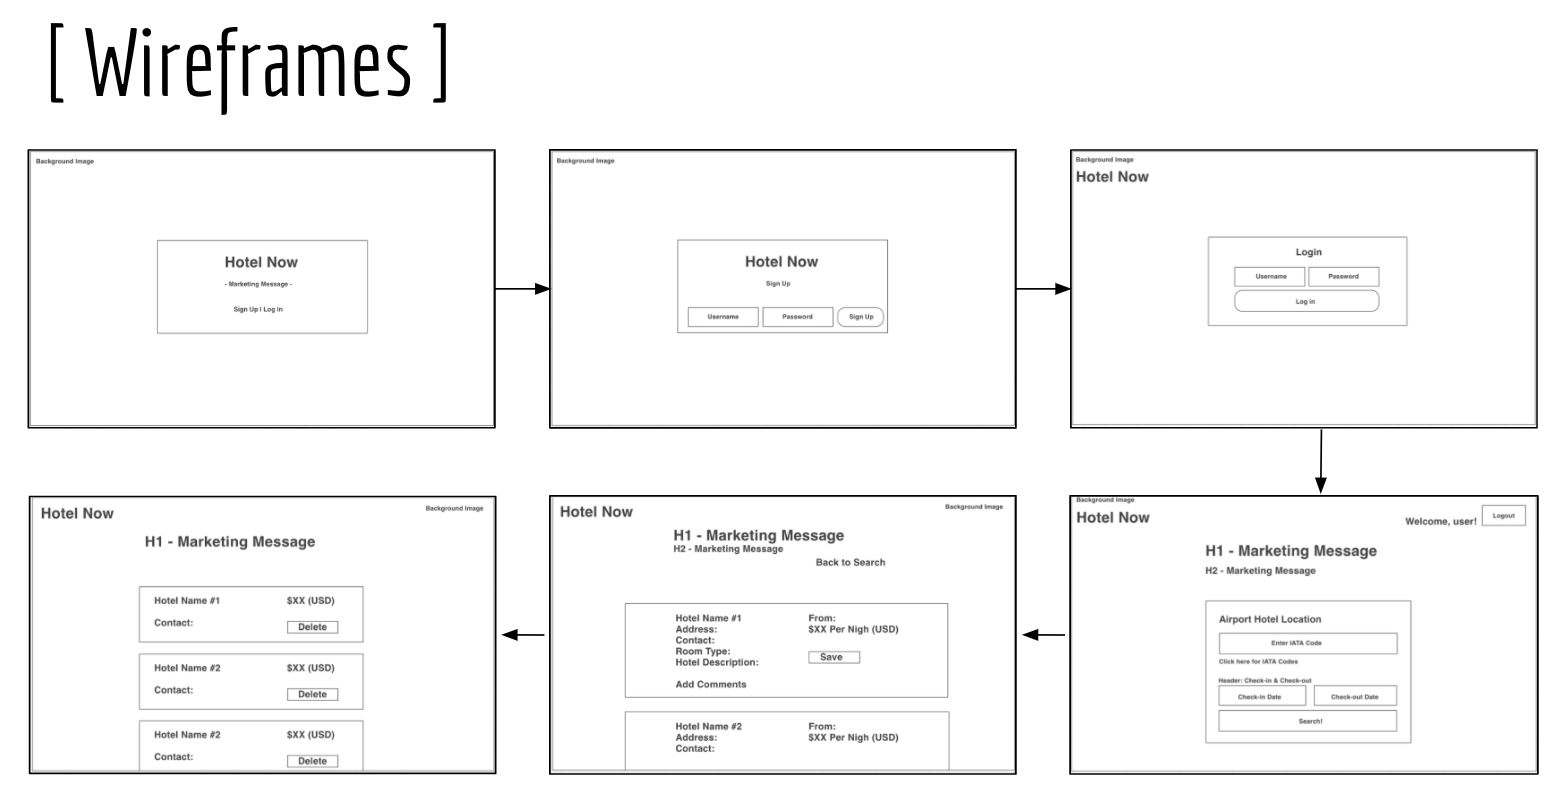
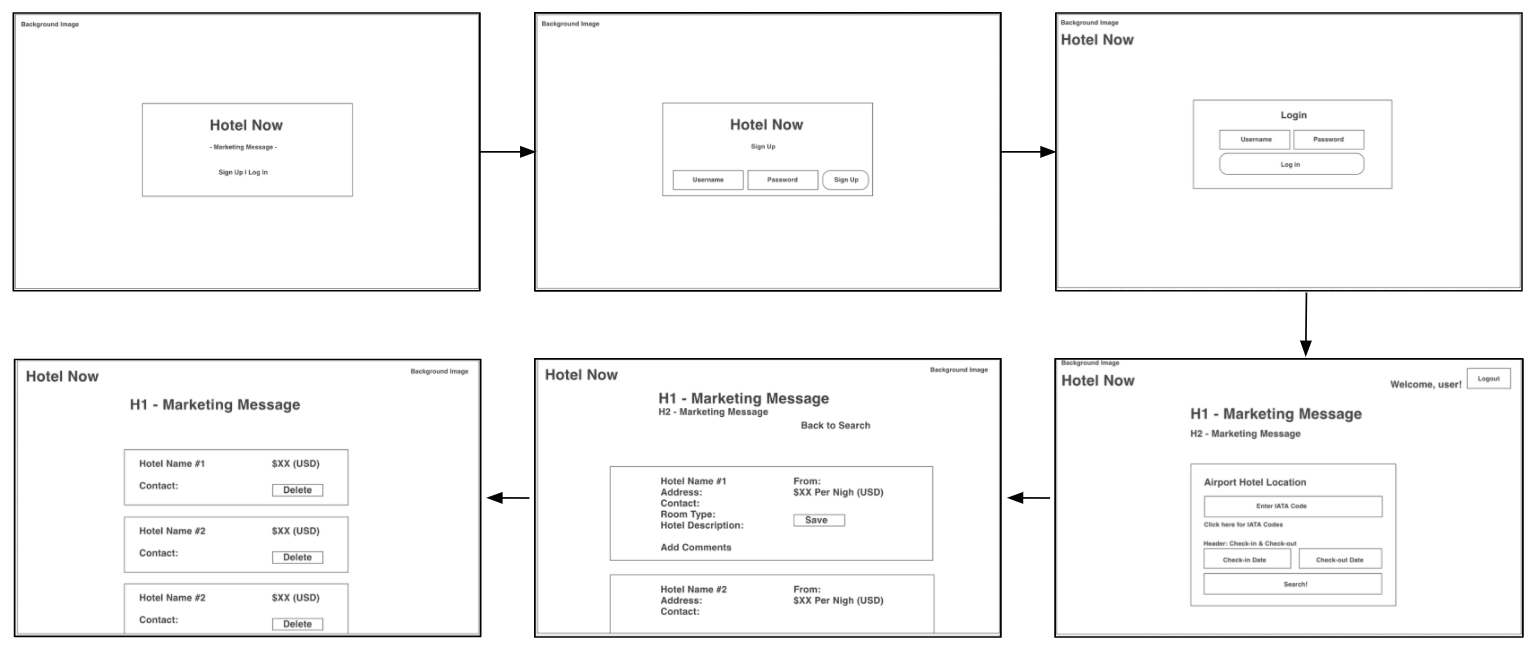
h1 and return link corrected

diff --git a/public/css/style.css b/public/css/style.css
@@ -439,13 +439,14 @@ ul li span1 {
 }
 
 .marketing3 a {
-  margin-left: 80%;
+  margin-left: 70%;
   font-family: 'Montserrat Alternates', sans-serif;
+  color: white;
 }
 
 .marketing-box {
-  width: 63%;
-  height: 180px;
+  width: 100%;
+  height: 90px;
   margin: 0 auto;
 /*  background-color: white;
   border: 1px solid black;
@@ -454,15 +455,6 @@ ul li span1 {
 
 .marketing2 h2 {
   color: white;
-}
-
-.marketing3 a {
-  color: white;
-}
-
-.marketing-box .marketing2 {
-  margin: 0 auto;
-  padding-left: 20px;
 }
 
 /*favorites.ejs page styling*/
@@ -523,3 +515,76 @@ ul li span1 {
 .edit-hotel input[type="text"] {
   width: 200px;
 }
+
+.main-container1{
+    width: 100%;
+    font-size: 12px;
+    overflow: hidden; /* contain floated elements */
+}
+
+.mainleft1 {
+    float: left;
+    width: 40%;
+    margin: 0;
+}
+
+.maincenter1 {
+    float: left;
+    width: 48%;
+    text-align: right;
+    margin: 2% 2% 0 0;
+}
+
+.maincenter1 h2 {
+  color: white;
+}
+
+.mainright1 {
+    float: right;
+    width: 10%;
+    margin-top: 30px;
+}
+
+.mainleft1 h1 {
+  font-size: 36px;
+  color: Tomato;
+  margin-left: 20px;
+}
+
+.main-container1 input[type="submit"] {
+  font-size: 15px;
+}
+
+.marketing-box2 {
+  margin-left: 28%;
+  color: white;
+}
+
+.marketing-box2 span {
+  text-decoration: underline;
+  color: tomato;
+}
+
+
+.marketing-box2 a {
+  margin-left: 48%;
+  font-family: 'Montserrat Alternates', sans-serif;
+  color: white;
+}
+
+/*.marketing2.5 h2 {
+  color: white;
+}
+
+.marketing3.5 h2 {
+  color: black;
+  margin: 50px;
+  color: white;
+  text-align: center
+}
+
+.marketing3.5 span {
+  text-decoration: underline;
+  color: tomato;
+}
+*/

diff --git a/routes/users.js b/routes/users.js
@@ -18,4 +18,5 @@ router.get('/profile', authenticate, (req, res) => {
   res.render('users/profile', { user: res.user });
 });
 
+
 module.exports = router;
